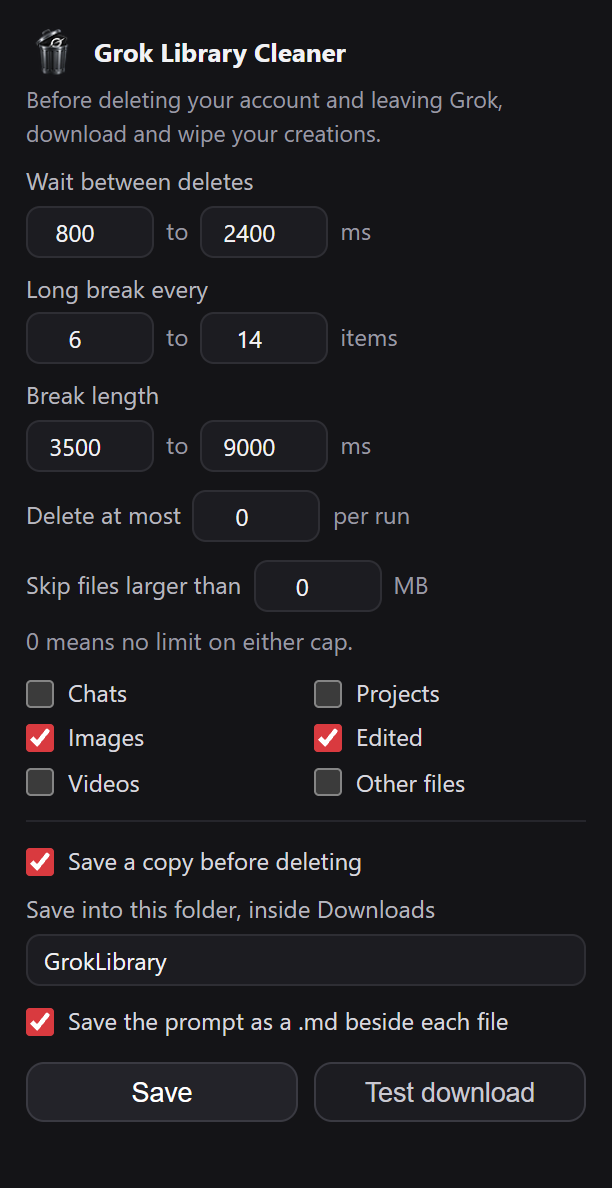
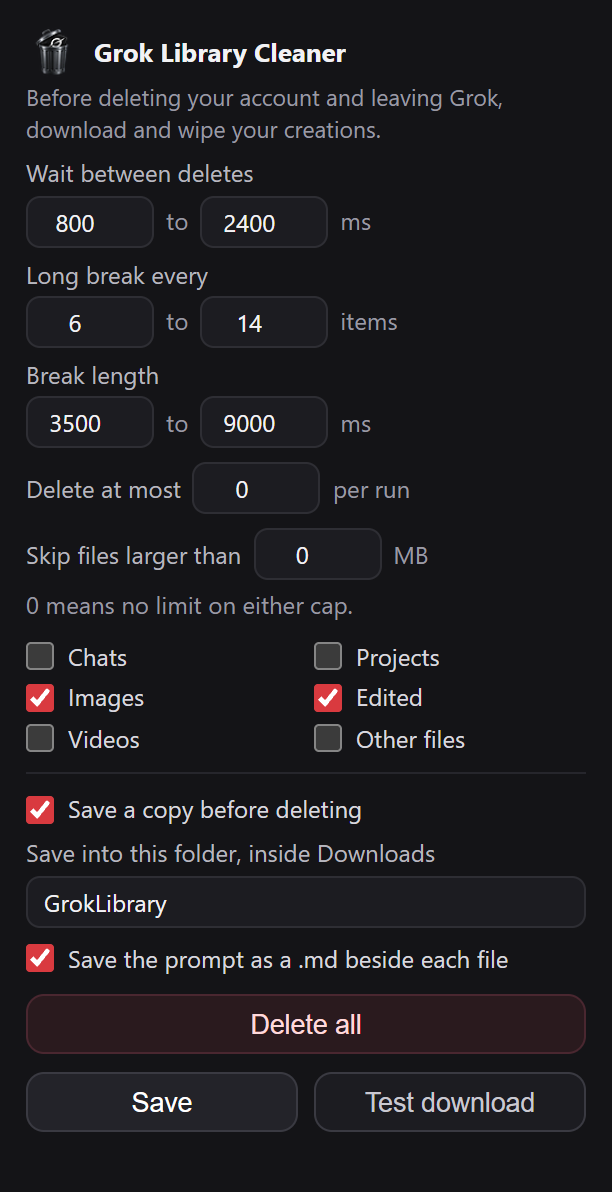
Start a run from the popup
Delete all now sits in the settings popup above Save, so a run no longer needs
the library page open. The popup saves its settings, then asks the service
worker, which pings an open Grok tab (preferring the active one) and sends it
glc-start; with no Grok tab open it opens the library first and waits for the
content script to answer. The run itself stays in the page so the toast,
progress bar and Stop keep working.

The content script now matches all of grok.com, since the popup can start from
any Grok tab. Outside the library it decorates nothing and adds no button.

The page answers glc-ping with its phase and refuses glc-start while a run is
in progress. Popup tightened to 306x596 to keep the new row inside Chrome's
600px limit, and the screenshot recaptured.

diff --git a/popup.html b/popup.html
@@ -12,16 +12,16 @@
         color: #f2f2f4;
         font: 13px/1.45 ui-sans-serif, system-ui, -apple-system, "Segoe UI", sans-serif;
       }
-      .brand { display: flex; align-items: center; gap: 8px; margin-bottom: 2px; }
+      .brand { display: flex; align-items: center; gap: 8px; margin-bottom: 1px; }
       .brand img { display: block; border-radius: 5px; }
       h1 { font-size: 13px; margin: 0; font-weight: 650; }
       p.hint { margin: 0; color: #9a9aa3; font-size: 12px; }
-      p.subtitle { margin: 3px 0 0; color: #9a9aa3; font-size: 11.5px; line-height: 1.45; }
-      p.hint.spaced { margin: 6px 0 0; }
-      .field { margin: 7px 0 0; color: #b7b7bf; font-size: 12px; }
-      .field .label { display: block; margin-bottom: 3px; }
+      p.subtitle { margin: 2px 0 0; color: #9a9aa3; font-size: 11.5px; line-height: 1.4; }
+      p.hint.spaced { margin: 4px 0 0; }
+      .field { margin: 5px 0 0; color: #b7b7bf; font-size: 12px; }
+      .field .label { display: block; margin-bottom: 2px; }
       .field .range { display: flex; align-items: center; gap: 6px; color: #9a9aa3; }
-      .inline { display: flex; align-items: center; gap: 6px; margin-top: 9px; color: #b7b7bf; font-size: 12px; }
+      .inline { display: flex; align-items: center; gap: 6px; margin-top: 7px; color: #b7b7bf; font-size: 12px; }
       .inline .label { flex: 0 0 auto; }
       .inline .unit { color: #9a9aa3; }
       input[type="number"] {
@@ -51,11 +51,11 @@
         font-size: 12px;
       }
       input[type="checkbox"] { width: 14px; height: 14px; margin: 0; accent-color: #d93a3f; flex: 0 0 auto; }
-      .grid2 { display: grid; grid-template-columns: 1fr 1fr; gap: 5px 8px; margin-top: 9px; }
+      .grid2 { display: grid; grid-template-columns: 1fr 1fr; gap: 3px 8px; margin-top: 8px; }
       .check { display: flex; align-items: center; gap: 7px; color: #d8d8de; font-size: 12px; }
       .check label { margin: 0; }
-      .divider { height: 1px; margin: 10px 0 0; background: #26262c; }
-      .actions { display: flex; gap: 8px; margin-top: 12px; }
+      .divider { height: 1px; margin: 8px 0 0; background: #26262c; }
+      .actions { display: flex; gap: 8px; margin-top: 9px; }
       button {
         flex: 1;
         height: 30px;
@@ -69,7 +69,17 @@
       button:hover { background: #2c2c34; }
       button.ghost { font-weight: 500; color: #c9c9d1; background: #1c1c21; }
       button.ghost:hover { background: #26262c; }
-      #status { margin-top: 6px; font-size: 11.5px; color: #8b8b93; min-height: 14px; word-break: break-word; }
+      button.danger {
+        display: block;
+        width: 100%;
+        flex: none;
+        margin-top: 9px;
+        border-color: #4a2730;
+        background: #2a1a1e;
+        color: #ffd9db;
+      }
+      button.danger:hover { background: #352025; border-color: #5f2f39; }
+      #status { margin-top: 5px; font-size: 11.5px; color: #8b8b93; min-height: 12px; word-break: break-word; }
     </style>
   </head>
   <body>
@@ -151,7 +161,7 @@
 
     <div class="divider"></div>
 
-    <div class="check" style="margin-top: 11px">
+    <div class="check" style="margin-top: 9px">
       <input id="downloadFirst" type="checkbox" />
       <label for="downloadFirst">Save a copy before deleting</label>
     </div>
@@ -161,10 +171,12 @@
       <input id="folder" type="text" spellcheck="false" placeholder="(no subfolder)" aria-label="Folder name inside the Downloads folder, leave empty to save straight into Downloads" />
     </div>
 
-    <div class="check" style="margin-top: 9px">
+    <div class="check" style="margin-top: 7px">
       <input id="savePrompts" type="checkbox" checked />
       <label for="savePrompts">Save the prompt as a .md beside each file</label>
     </div>
+
+    <button id="delall" class="danger" title="Scan in your open Grok tab, then delete what you confirm">Delete all</button>
 
     <div class="actions">
       <button id="save">Save</button>

diff --git a/background.js b/background.js
@@ -13,13 +13,80 @@
 const TIMEOUT_MS = 10 * 60 * 1000;
 
 chrome.runtime.onMessage.addListener((msg, _sender, sendResponse) => {
-  if (!msg || (msg.type !== 'glc-save' && msg.type !== 'glc-selftest')) return false;
-  const work = msg.type === 'glc-selftest' ? selfTest(msg) : saveAsset(msg);
+  if (!msg) return false;
+  const known = msg.type === 'glc-save' || msg.type === 'glc-selftest' || msg.type === 'glc-run-all';
+  if (!known) return false;
+  const work =
+    msg.type === 'glc-run-all'
+      ? startRunInGrokTab()
+      : msg.type === 'glc-selftest'
+        ? selfTest(msg)
+        : saveAsset(msg);
   work
     .then((res) => sendResponse(res))
     .catch((err) => sendResponse({ ok: false, error: String((err && err.message) || err) }));
   return true; // keep the channel open for the async reply
 });
+
+/* ---------------------------------------------------------------------
+ * Runs started from the popup.
+ *
+ * The scan and the deletes live in the content script, because they need the
+ * page's cookie session and the on-page toast. So the popup's Delete all only
+ * wakes a Grok tab: an open one is preferred, otherwise the library is opened.
+ * --------------------------------------------------------------------- */
+
+const GROK_ORIGIN = 'https://grok.com/';
+
+async function findGrokTab() {
+  const tabs = await chrome.tabs.query({ url: 'https://grok.com/*' });
+  if (!tabs || !tabs.length) return null;
+  return tabs.find((t) => t.active) || tabs[0];
+}
+
+/* A freshly opened tab needs a moment before its content script answers. */
+function waitForContentScript(tabId, tries = 24, gap = 500) {
+  return new Promise((resolve) => {
+    let attempt = 0;
+    const tick = () => {
+      chrome.tabs.sendMessage(tabId, { type: 'glc-ping' }, (res) => {
+        if (chrome.runtime.lastError) {
+          // no listener yet; expected while the page is still booting
+        }
+        if (res && res.ok) return resolve(true);
+        attempt += 1;
+        if (attempt >= tries) return resolve(false);
+        setTimeout(tick, gap);
+      });
+    };
+    tick();
+  });
+}
+
+async function startRunInGrokTab() {
+  let tab = await findGrokTab();
+  let opened = false;
+  if (!tab) {
+    tab = await chrome.tabs.create({ url: GROK_ORIGIN + 'library', active: true });
+    opened = true;
+  }
+  const ready = await waitForContentScript(tab.id);
+  if (!ready) {
+    return { ok: false, error: 'The Grok tab did not answer. Reload it and try again.' };
+  }
+  if (opened) {
+    await chrome.tabs.update(tab.id, { active: true });
+  }
+  return new Promise((resolve) => {
+    chrome.tabs.sendMessage(tab.id, { type: 'glc-start' }, (res) => {
+      if (chrome.runtime.lastError) {
+        resolve({ ok: false, error: chrome.runtime.lastError.message });
+        return;
+      }
+      resolve(res || { ok: false, error: 'No answer from the page.' });
+    });
+  });
+}
 
 async function saveAsset({ url, path, expectedSize, md, mdPath }) {
   if (!url || !path) return { ok: false, error: 'missing url or path' };

diff --git a/popup.js b/popup.js
@@ -134,6 +134,36 @@ for (const [, id] of NUMBER_FIELDS) {
 document.getElementById('downloadFirst').addEventListener('change', () => syncSave());
 syncSave();
 
+/* Hands the run to the service worker, which finds or opens a Grok tab. */
+document.getElementById('delall').addEventListener('click', async () => {
+  const status = document.getElementById('status');
+  const settings = read();
+  const anyType =
+    settings.removeSessions ||
+    settings.removeProjects ||
+    settings.includePlain ||
+    settings.includeEdited ||
+    settings.includeVideos ||
+    settings.includeOther;
+  if (!anyType) {
+    status.textContent = 'Turn on at least one type first.';
+    return;
+  }
+  if (store) await store.set({ settings });
+  fill(settings);
+  status.textContent = 'Starting in your Grok tab…';
+  try {
+    const res = await chrome.runtime.sendMessage({ type: 'glc-run-all' });
+    if (res && res.ok) {
+      status.textContent = 'Scanning in your Grok tab. Confirm there.';
+    } else {
+      status.textContent = 'Could not start: ' + ((res && res.error) || 'no answer from the extension');
+    }
+  } catch (err) {
+    status.textContent = 'Could not start: ' + String((err && err.message) || err);
+  }
+});
+
 document.getElementById('selftest').addEventListener('click', async () => {
   const status = document.getElementById('status');
   const folder = cleanFolder(document.getElementById('folder').value);

diff --git a/content.js b/content.js
@@ -140,6 +140,27 @@
     /* no extension storage context (manual injection for testing) */
   }
 
+  /* The popup starts runs from any Grok tab, so the page answers these two. */
+  try {
+    chrome.runtime.onMessage.addListener((msg, sender, reply) => {
+      if (!msg || !msg.type) return;
+      if (msg.type === 'glc-ping') {
+        reply({ ok: true, phase });
+        return;
+      }
+      if (msg.type === 'glc-start') {
+        if (phase !== 'idle') {
+          reply({ ok: false, error: 'A run is already in progress in this tab.' });
+          return;
+        }
+        startScan();
+        reply({ ok: true });
+      }
+    });
+  } catch (e) {
+    /* no runtime in manual injection */
+  }
+
   // ---------------------------------------------------------- delete API
 
   const API_CONVERSATIONS = '/rest/app-chat/conversations';

diff --git a/README.md b/README.md
@@ -20,7 +20,7 @@ Chats and projects are two more removal types in the same popup, both off by def
 That order is the point. You leave with your work instead of a folder of untitled renders, and the library gets empty without you clicking a menu fifteen thousand times.
 
 <p align="center">
-  <img src="assets/popup.png" width="306" alt="Grok Library Cleaner settings popup: wait and break pacing, per-run and size caps, type filters, and the save-copy options with a folder name and prompt sidecars">
+  <img src="assets/popup.png" width="306"  alt="Grok Library Cleaner settings popup: wait and break pacing, per-run and size caps, type filters, and the save-copy options with a folder name and prompt sidecars">
 </p>
 
 <p align="center"><sub>The settings popup at its real size, with saving turned on.</sub></p>
@@ -42,6 +42,8 @@ git clone https://github.com/apoapostolov/grok-library-cleaner.git
 **Save first.** With **Save a copy before deleting** on, every asset is written to disk before its delete request is sent, and a matching `.md` holds the prompt plus model, mode, aspect ratio and dimensions. A file that fails to save is never deleted, so a bad path or a full disk cannot cost you an image.
 
 **Per-item delete.** A 26px trash glyph in the top-right corner of every tile. One click removes that asset. No menu, no dialog, and a toast in the bottom-right confirms which file went.
+
+**Delete all from the popup.** The same button also lives in the settings popup, above Save, so you never have to be on the library page. It finds an open Grok tab and starts the run there; if none is open it opens the library first. The scan, the confirm and the progress bar all live in the tab, so the run keeps its toast and its Stop button where you can see them. If a run is already going in that tab, the popup says so instead of starting a second one.
 
 **Delete all.** Two clicks to arm, then a scan of the whole library and a confirm toast showing the queue size and per-class breakdown. Nothing is deleted until you press **Delete N**. During the run the toast carries a live progress bar with the count, failures, elapsed time and ETA, plus a **Stop** button. Every run can be stopped between items.
 
@@ -104,6 +106,7 @@ The extension has no backend and no analytics. It talks to `grok.com` for the li
 
 ## Notes
 
+- The content script runs on every `grok.com` page, not just the library, because the popup can start a run from any Grok tab. On a page without a library grid it decorates nothing and adds no button.
 - Deletion is permanent on Grok's side and there is no undo, for chats and projects as much as for images.
 - Deleting a project removes the project. What Grok does with the chats inside it is Grok's behaviour, and the extension does not know in advance.
 - Saving is opt in. Turn on **Save a copy before deleting**, click **Test download** once, open the folder, then start the purge.
